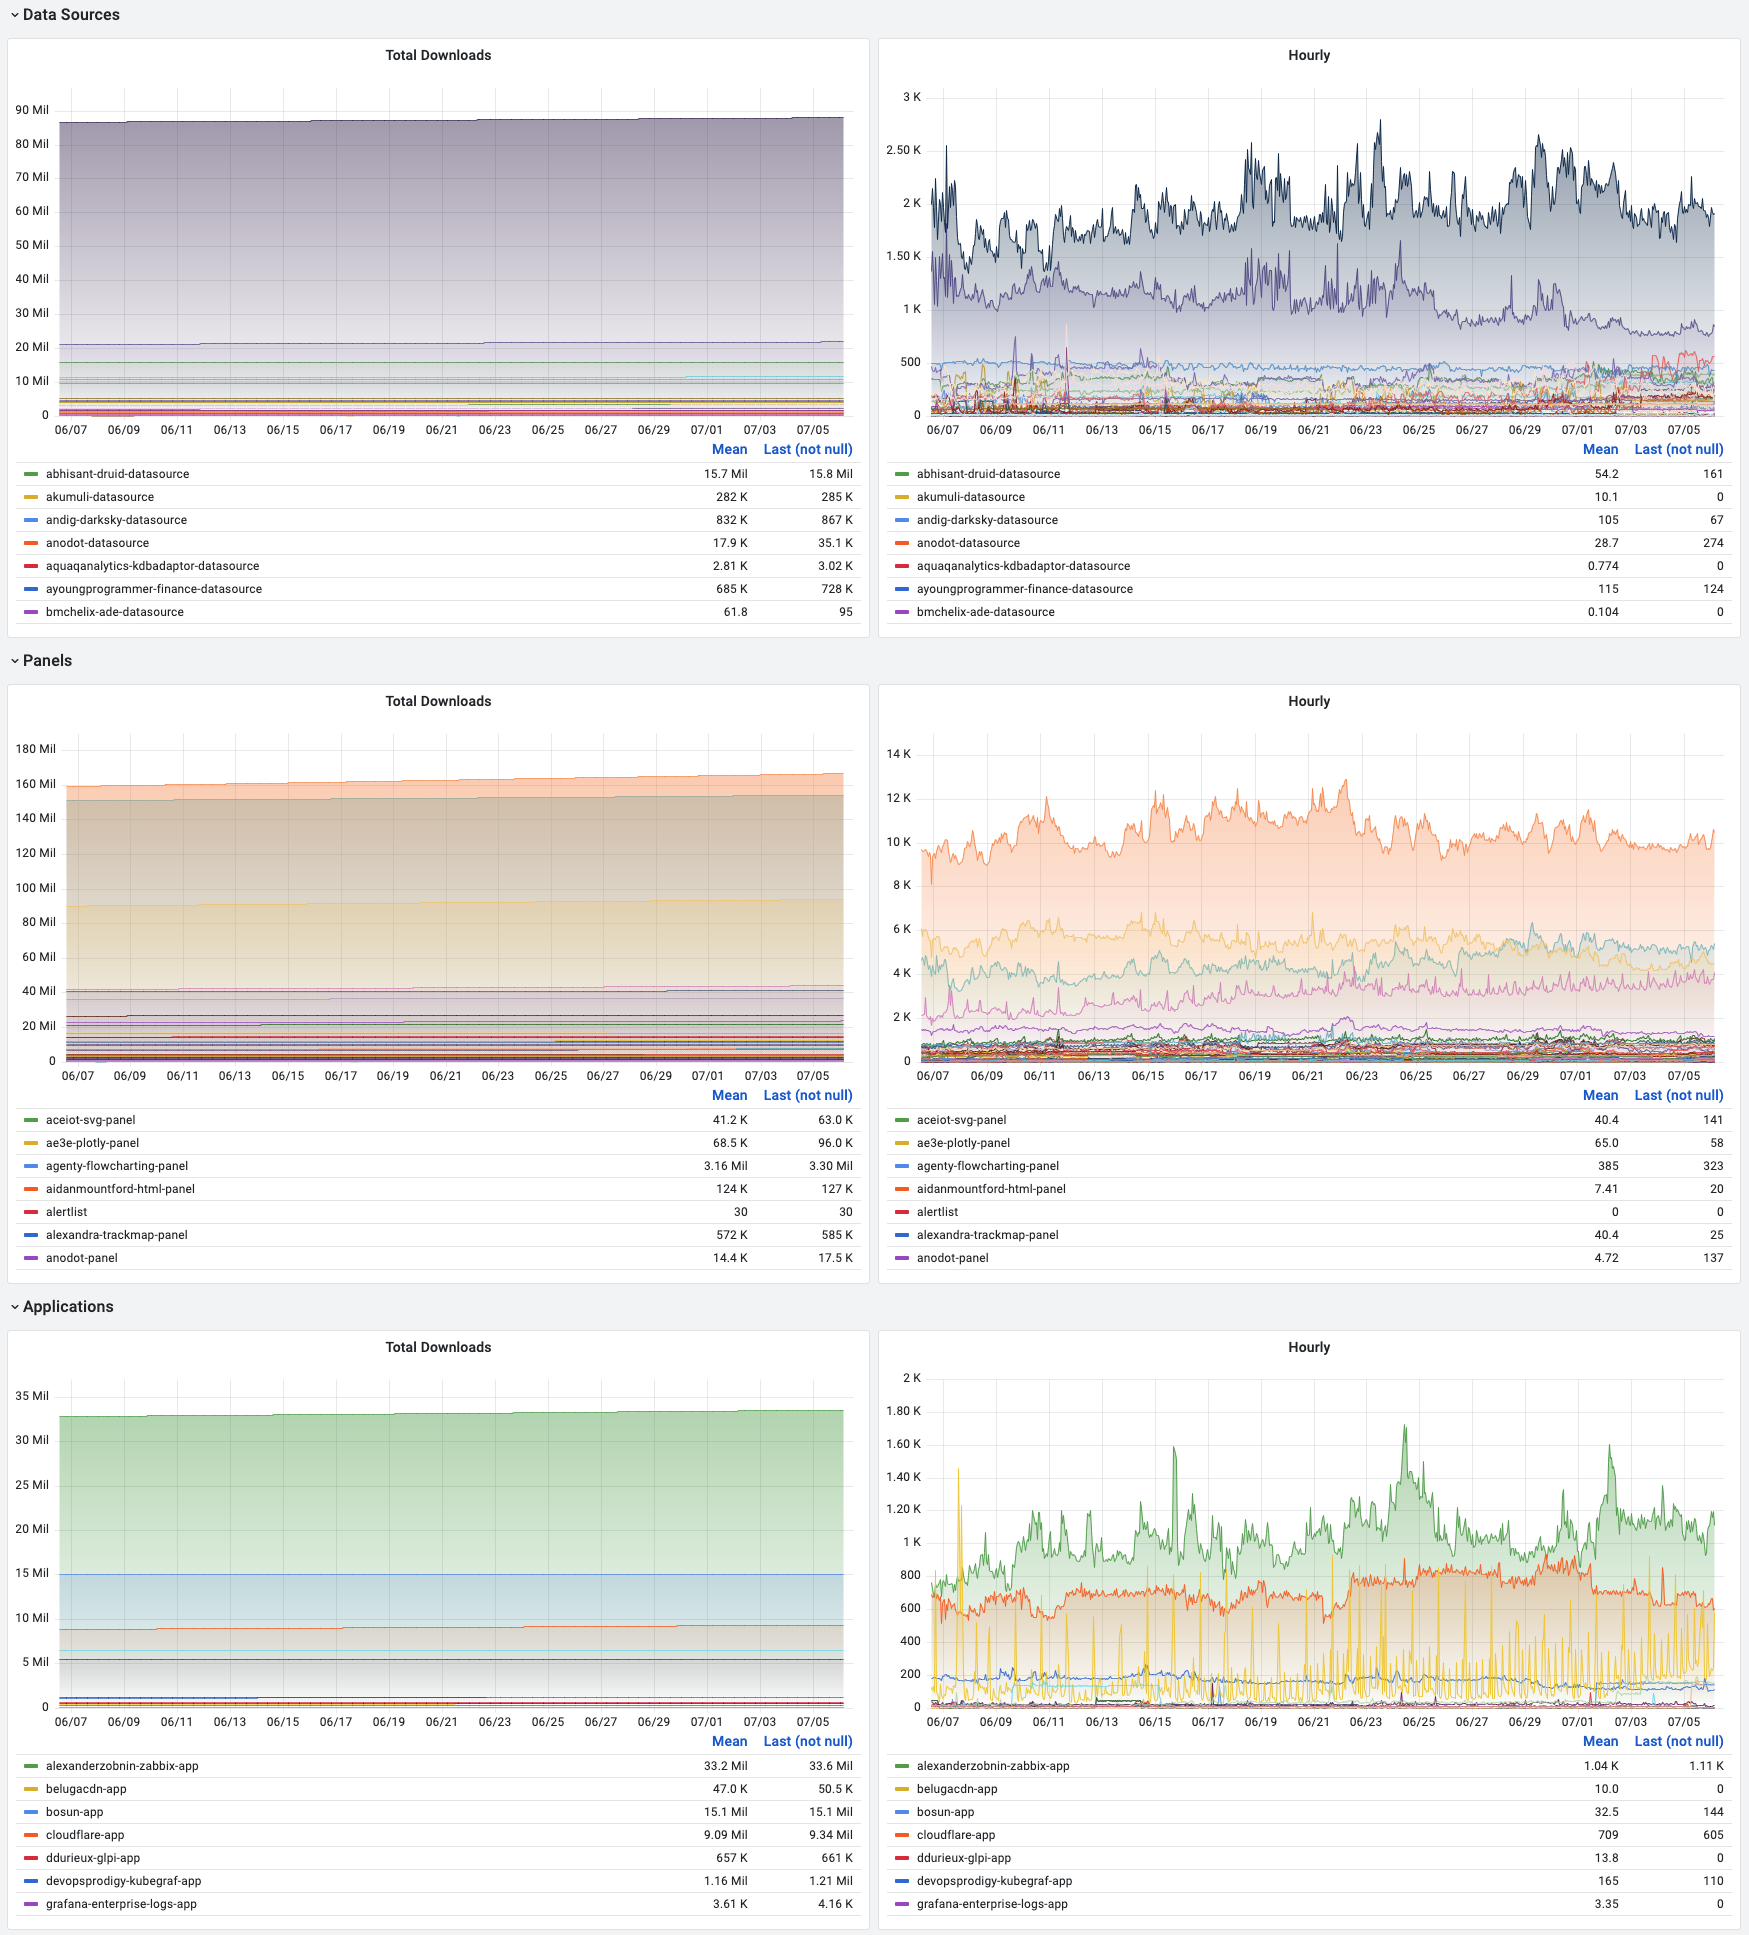
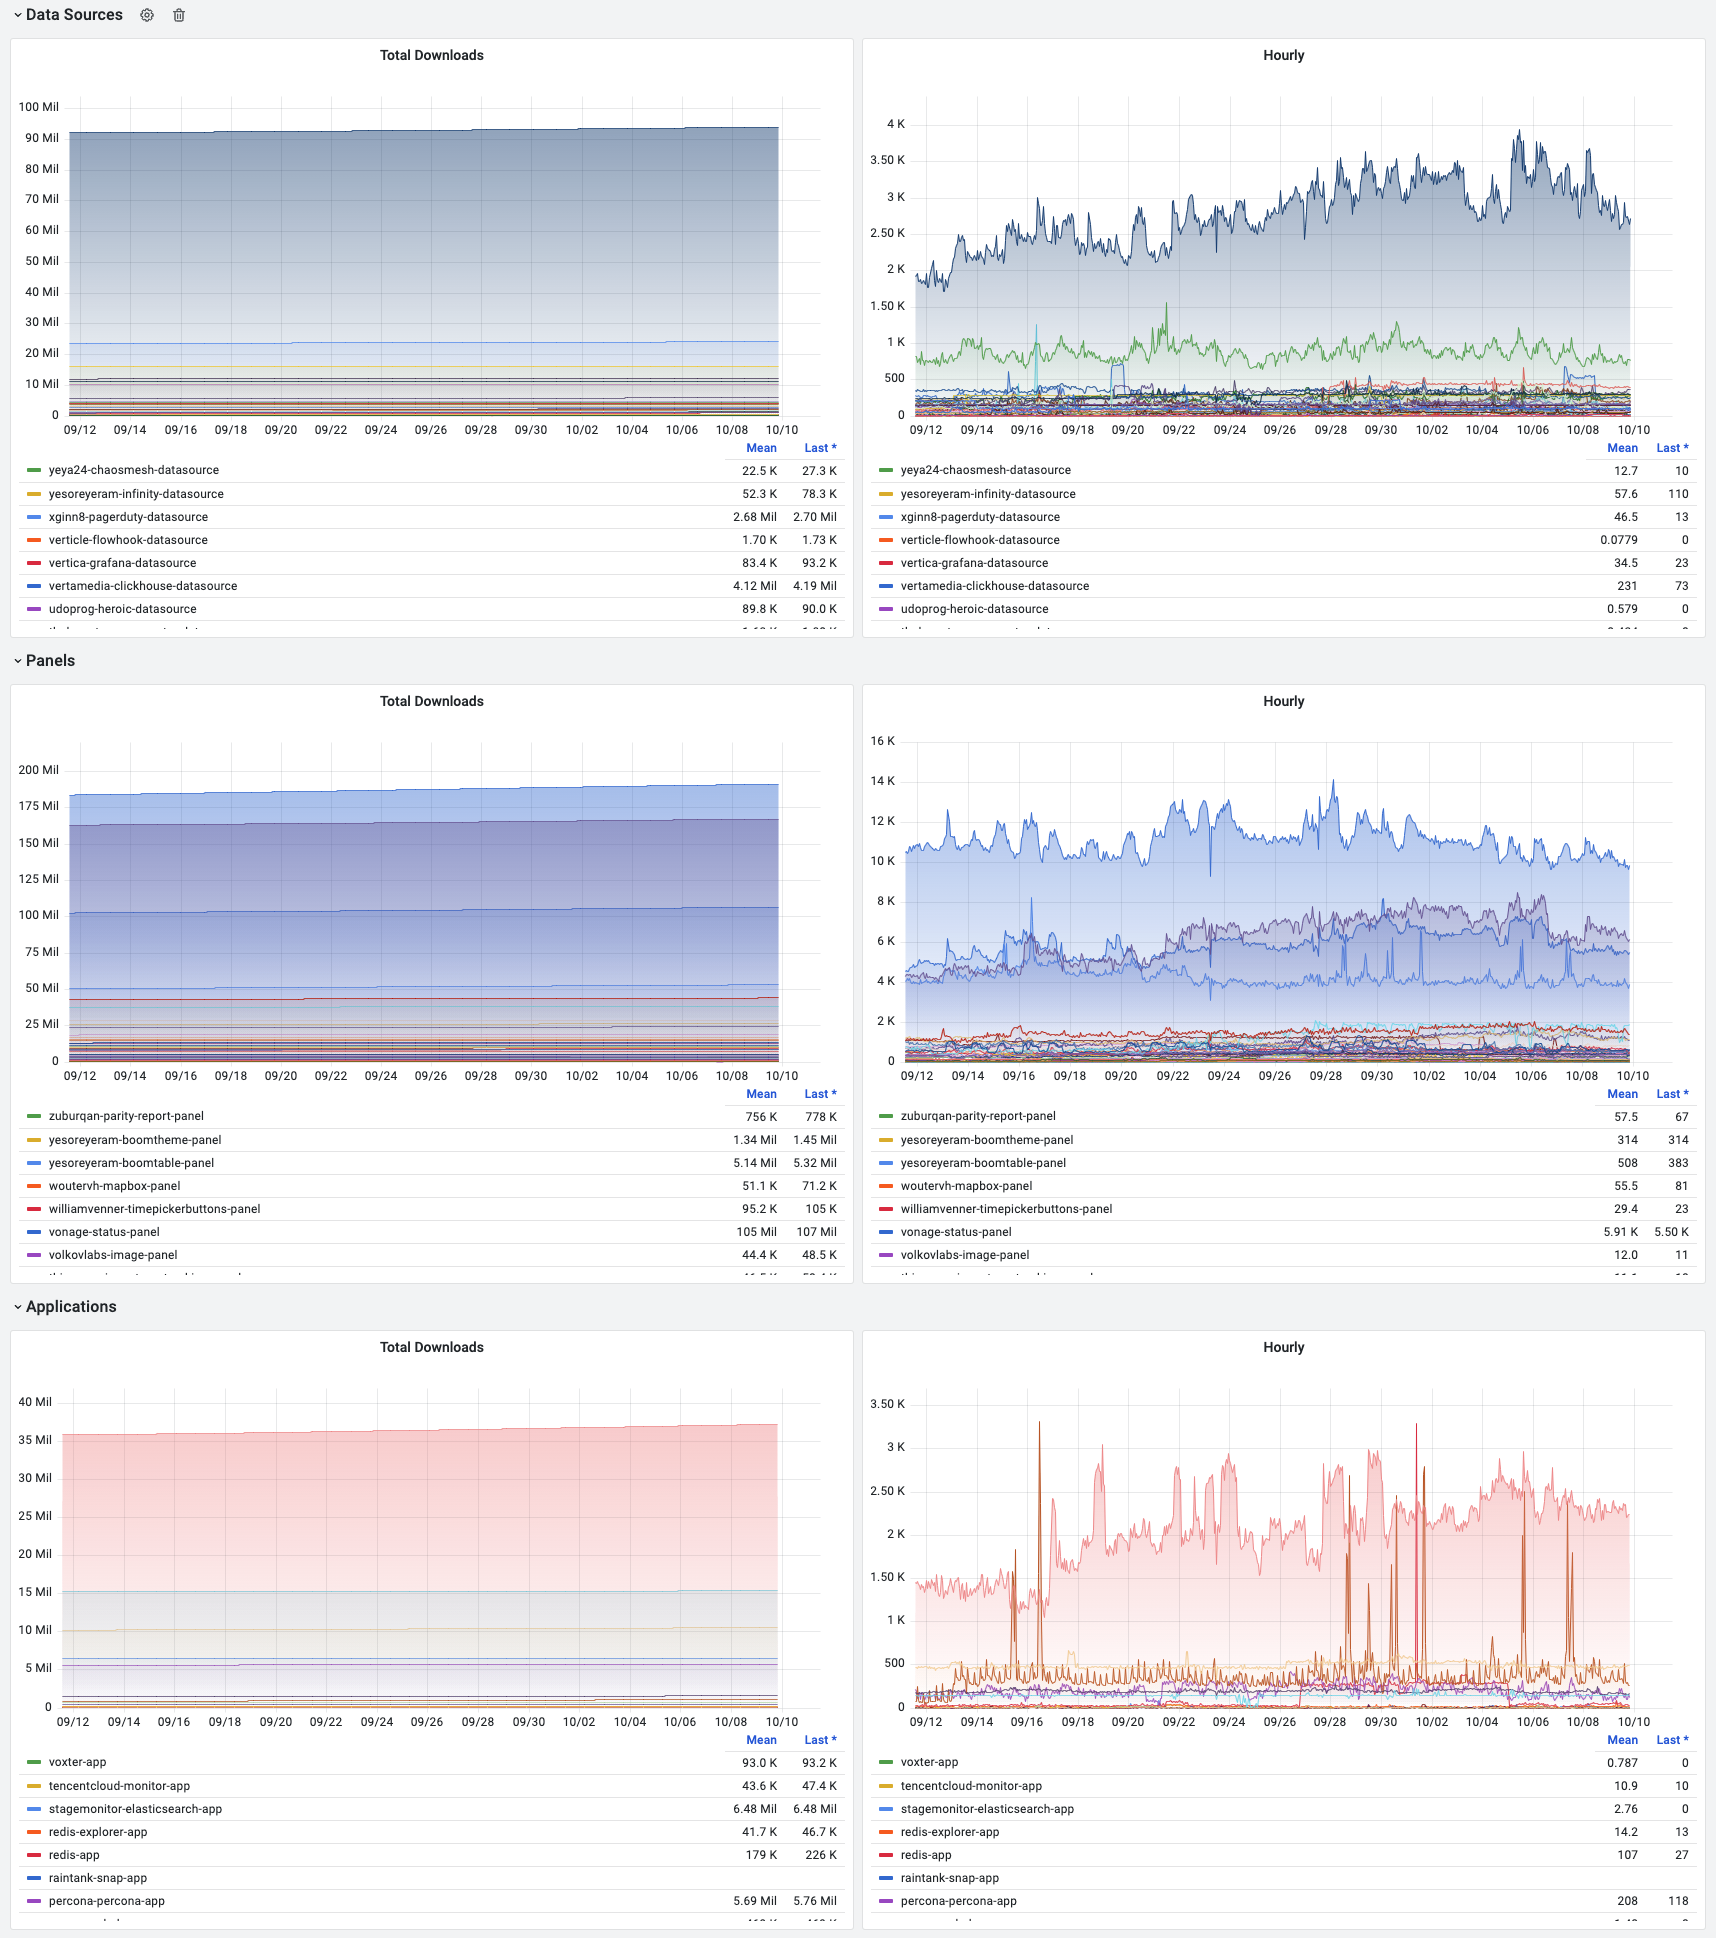
Update screenshots

diff --git a/README.md b/README.md
@@ -14,6 +14,13 @@ This project collects plugins statistics from Grafana repository as [RedisTimeSe
 
 Read the full story on Redis Labs blog [How to Use the New Redis Data Source for Grafana Plugin](https://redis.com/blog/how-to-use-the-new-redis-data-source-for-grafana-plug-in/).
 
+## Demo
+
+Demo is available on [demo.volkovlabs.io](https://demo.volkovlabs.io):
+
+- [Redis Overview dashboard](https://demo.volkovlabs.io/d/TgibHBv7z/redis-overview?orgId=1&refresh=1h)
+- [Grafana Plugins dashboard](https://demo.volkovlabs.io/d/C1NCSr3Gk/grafana-plugins?orgId=1)
+
 ## Requirements
 
 - [Docker](https://docker.com) to start Redis and Grafana.
